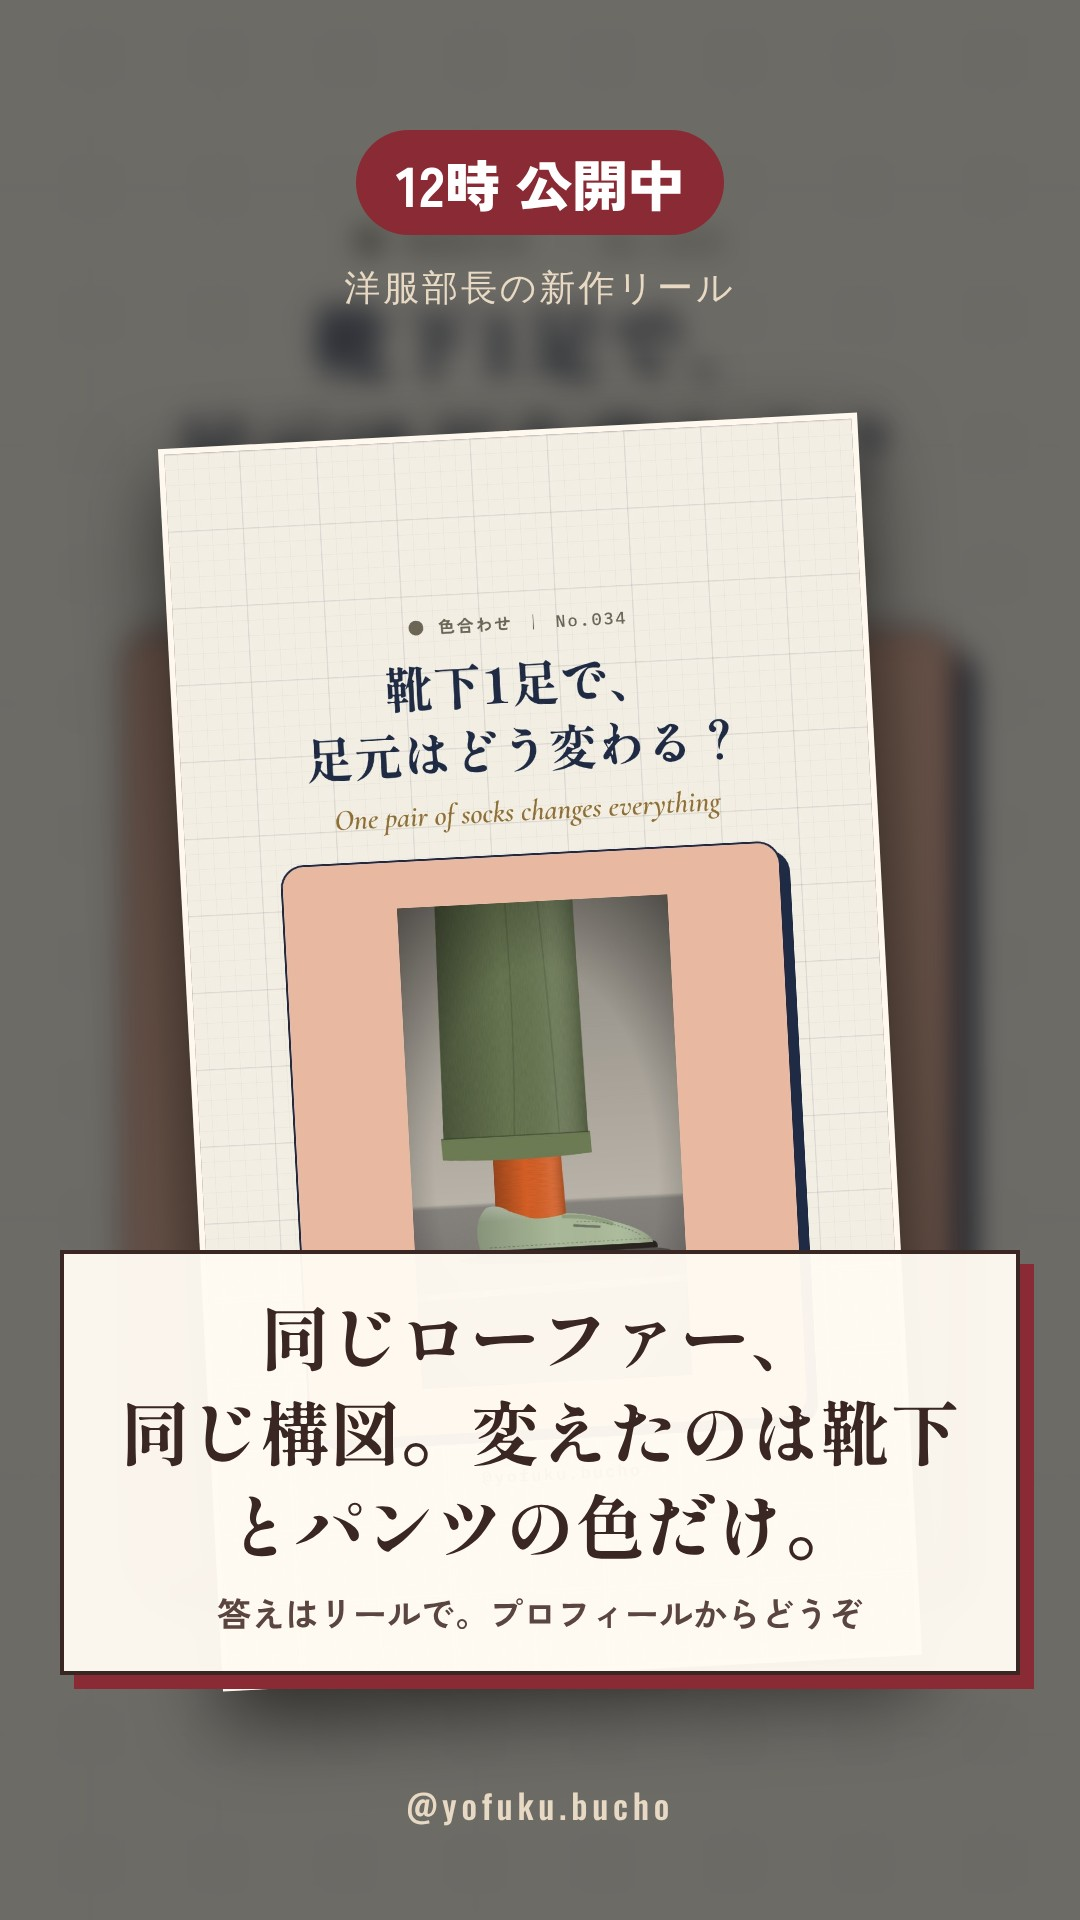
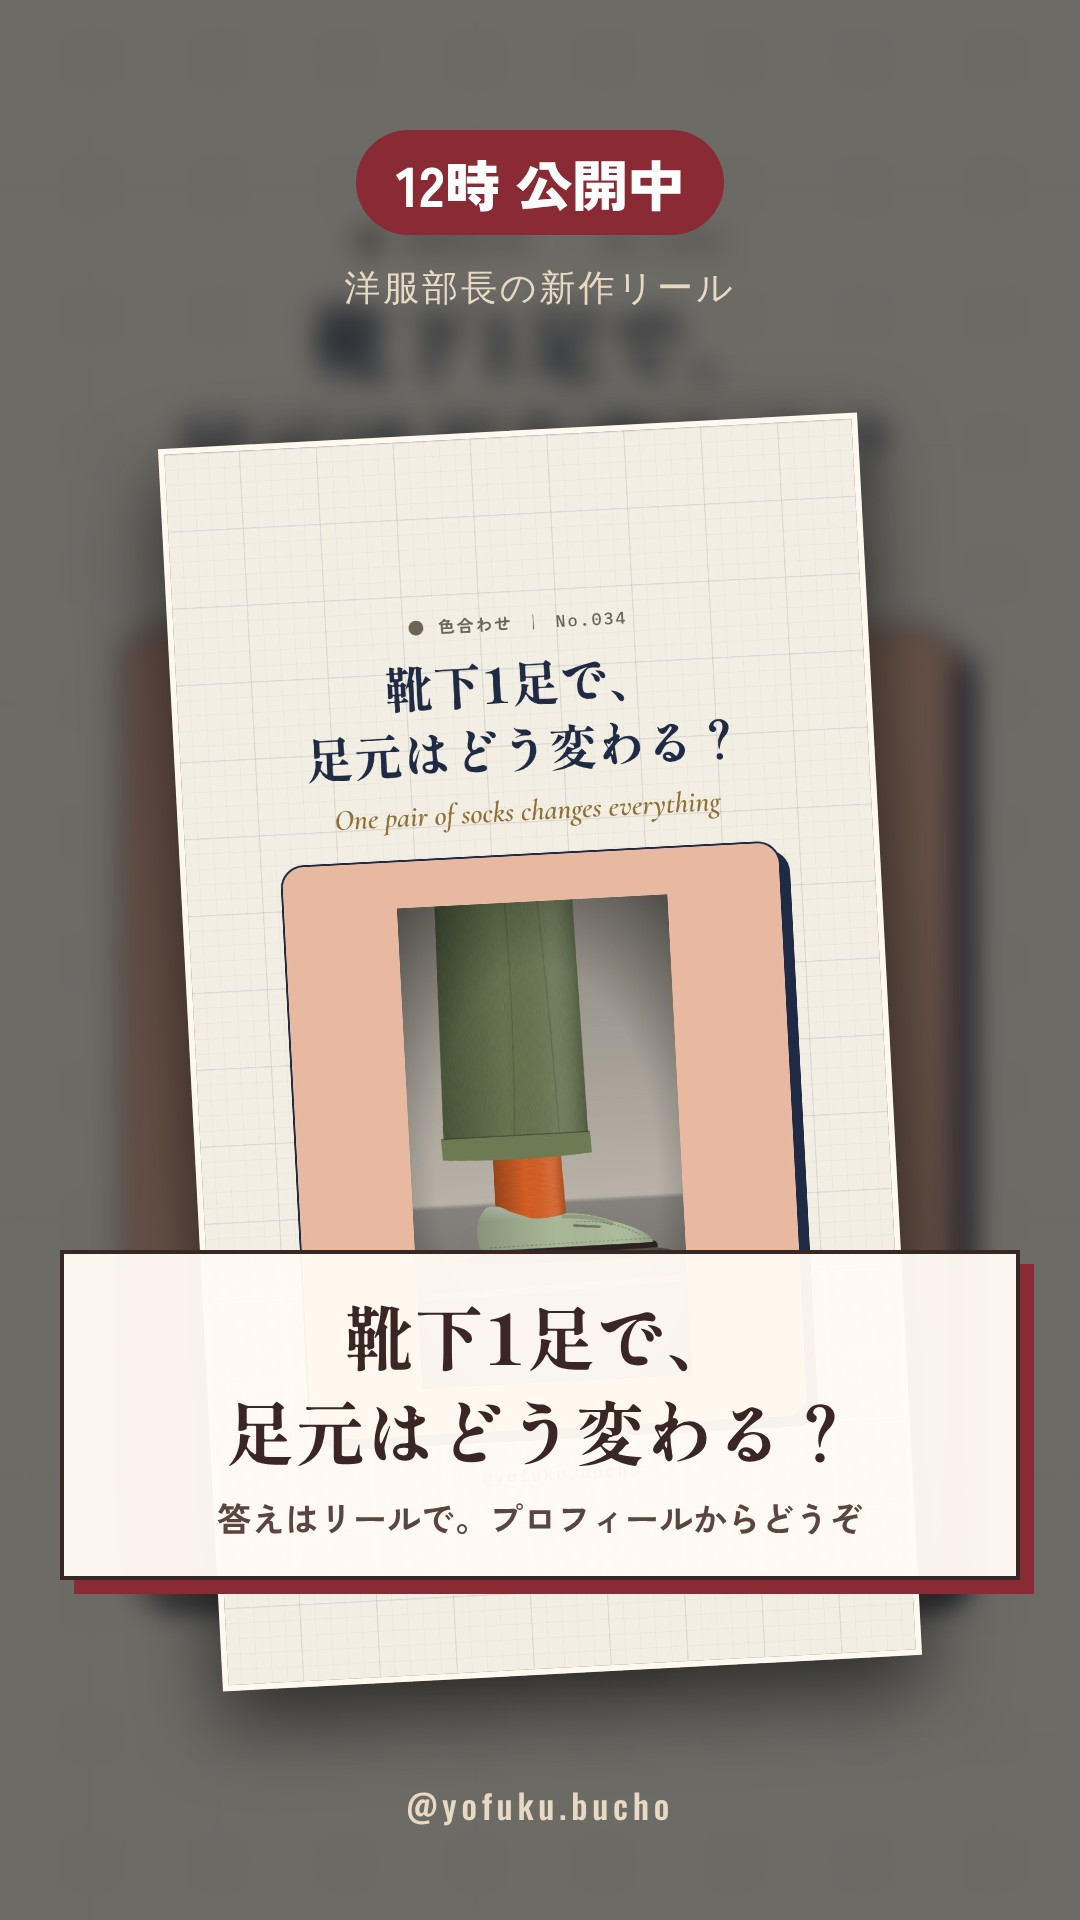
make_story: headline override
Claude-Session: https://claude.ai/code/session_01WnFE1UY7vLLTvamMQ2KMLt

Changed region(s): [[0.0306, 0.6562, 0.9778, 0.9062]]

diff --git a/tools/make_story.py b/tools/make_story.py
@@ -11,6 +11,8 @@ when = sys.argv[2] if len(sys.argv) > 2 else "今夜21時"
 sub = sys.argv[3] if len(sys.argv) > 3 else "答えは今夜のリールで。プロフィールからどうぞ"
 suffix = sys.argv[4] if len(sys.argv) > 4 else "公開"
 first = (d / "caption.txt").read_text(encoding="utf-8").strip().splitlines()[0]
+if len(sys.argv) > 5 and sys.argv[5]:
+    first = sys.argv[5]  # 5番目: 見出しの上書き（1行目が長いとき。20字前後に）
 m = re.search(r"#(\d+)", (d / "caption.txt").read_text(encoding="utf-8"))
 series = f"売れる店のしくみ #{m.group(1)}" if m and "売れる店のしくみ" in (d / "caption.txt").read_text(encoding="utf-8") else "洋服部長の新作リール"
 if "何センチ" in (d / "caption.txt").read_text(encoding="utf-8"): series = "売れる店は、何センチ？シリーズ"
